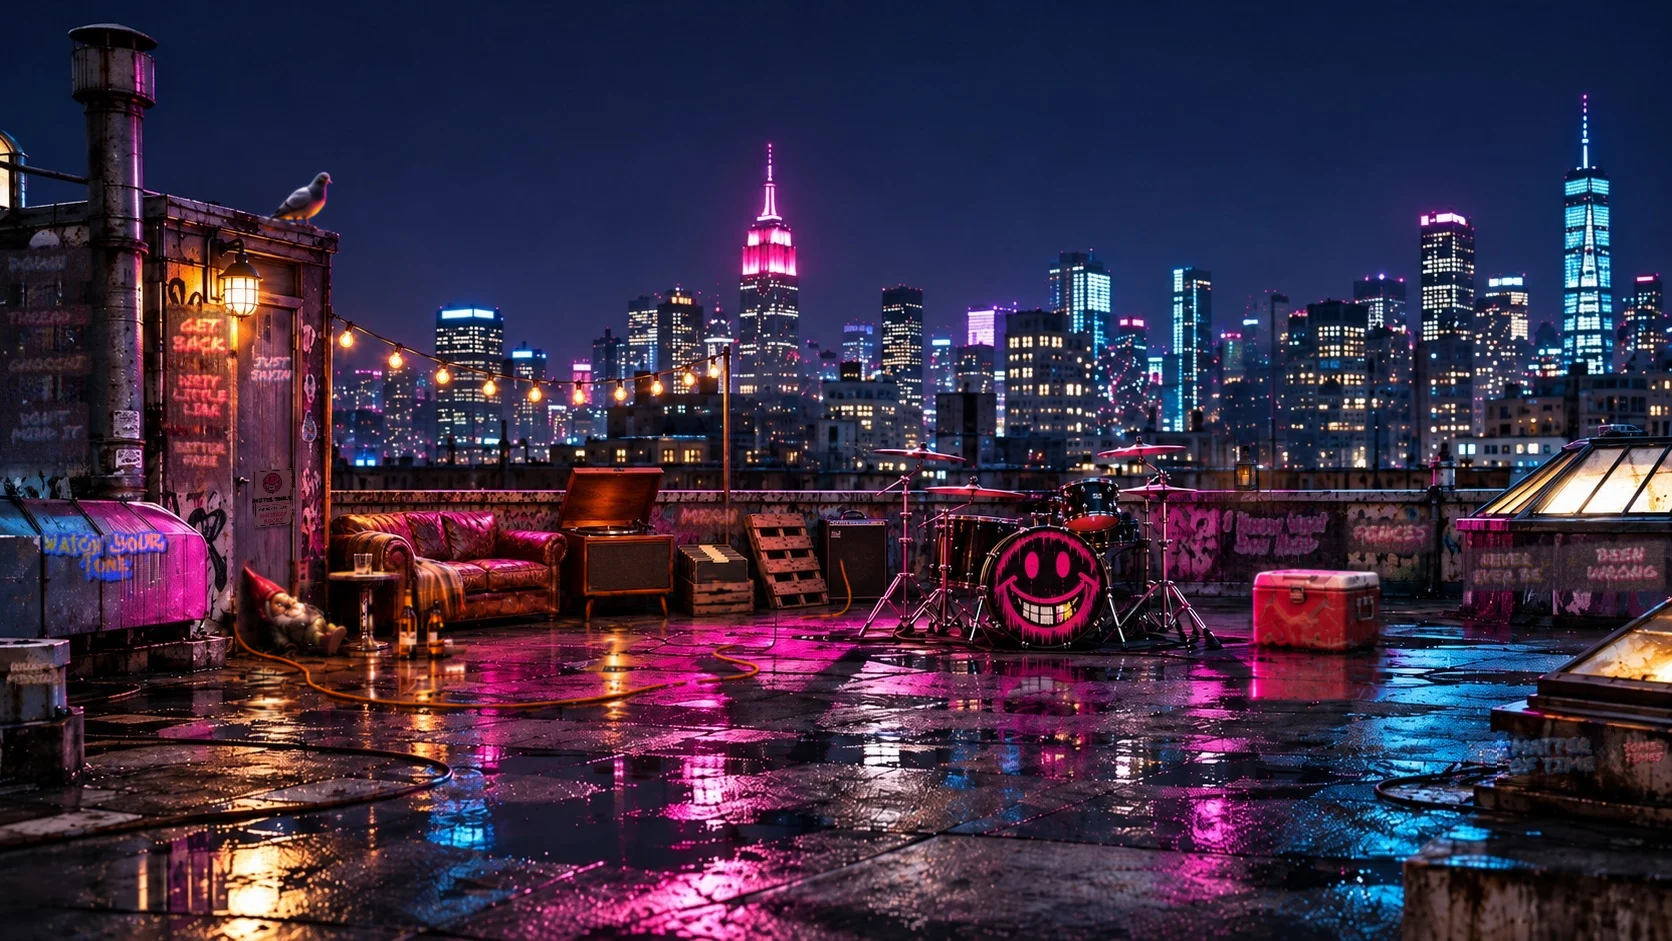
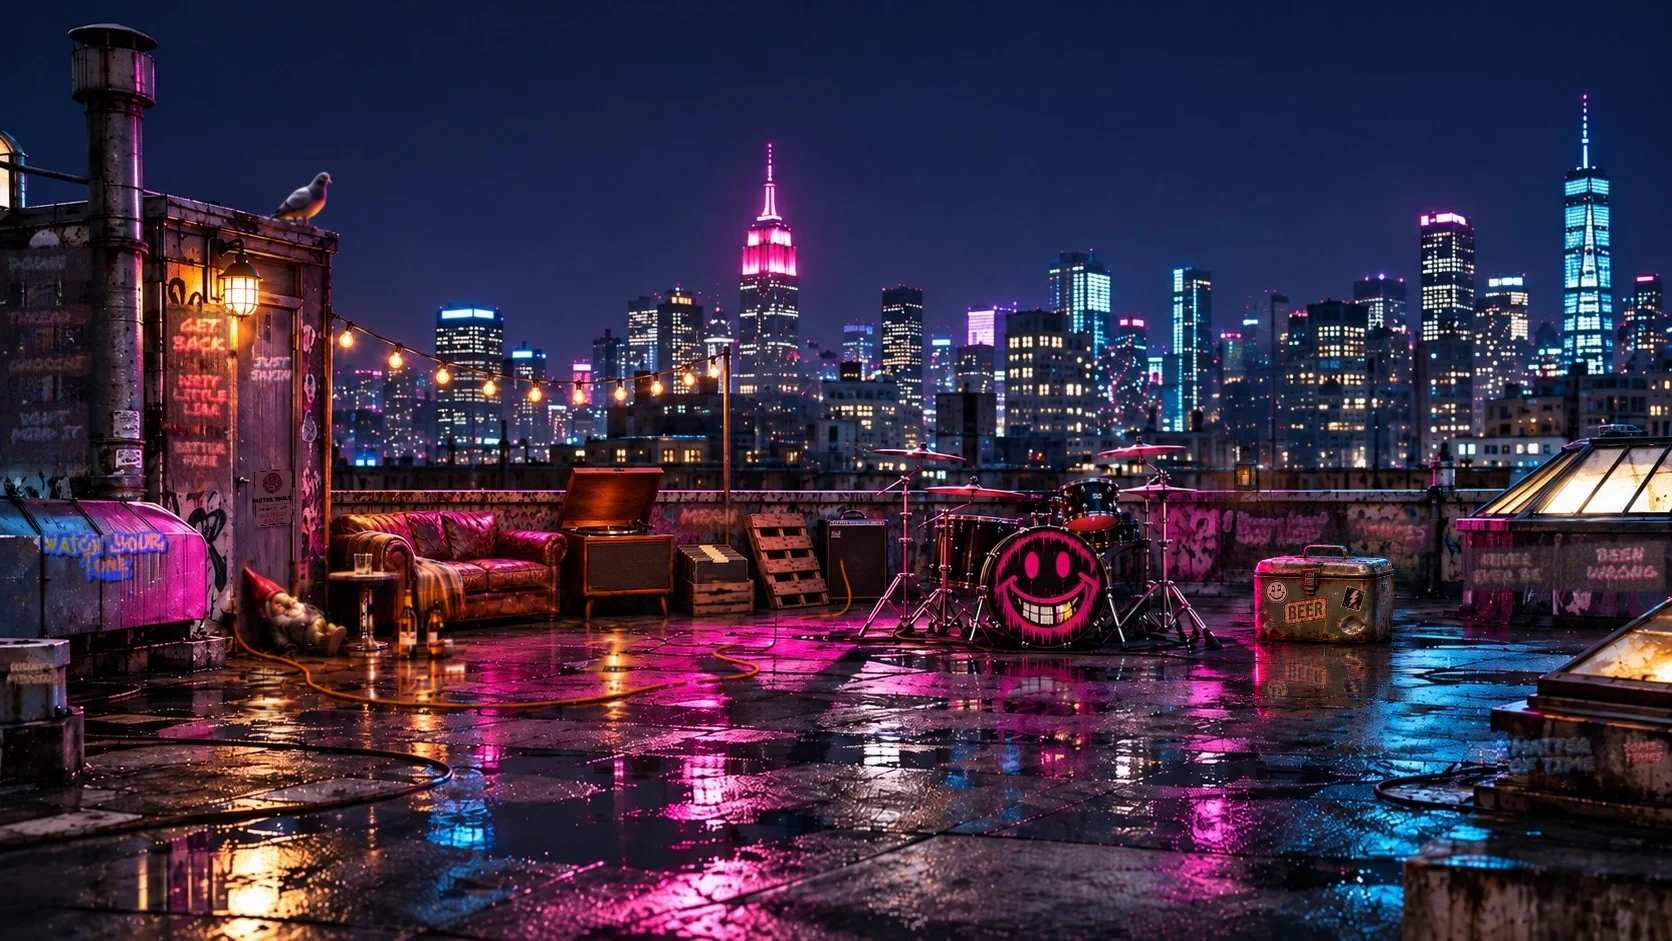
New cooler + spot behind it
Claude-Session: https://claude.ai/code/session_011gssdMsenVXumrh9a32rRB

Changed region(s): [[0.7153, 0.5547, 0.8708, 0.7705]]

diff --git a/index.html b/index.html
@@ -98,7 +98,7 @@ input{flex:1 1 220px;min-width:0;font:inherit;font-size:16px;padding:12px;backgr
 @media (max-width:760px){.stage{-webkit-user-select:none;user-select:none;-webkit-touch-callout:none}}
 #play{position:absolute;left:0;top:0;width:1672px;height:941px;transform-origin:0 0;z-index:3;pointer-events:none}
 #play .pk,#lg-play .pk{appearance:none;-webkit-appearance:none;background-color:transparent;border:0;padding:0;margin:0;color:transparent;position:absolute;pointer-events:auto;cursor:pointer;border-radius:8px;-webkit-tap-highlight-color:transparent}
-#play .pk.img{background-image:url(img/rooftop-lounge.webp?v=10);background-size:1672px 941px;-webkit-mask-image:radial-gradient(ellipse 50% 50% at 50% 50%,#000 70%,transparent 100%);mask-image:radial-gradient(ellipse 50% 50% at 50% 50%,#000 70%,transparent 100%)}
+#play .pk.img{background-image:url(img/rooftop-lounge.webp?v=11);background-size:1672px 941px;-webkit-mask-image:radial-gradient(ellipse 50% 50% at 50% 50%,#000 70%,transparent 100%);mask-image:radial-gradient(ellipse 50% 50% at 50% 50%,#000 70%,transparent 100%)}
 #play .pk:focus-visible,#lg-play .pk:focus-visible{outline:3px solid var(--cyan);outline-offset:2px}
 @media (hover:hover){#play .pk:hover,#lg-play .pk:hover{filter:brightness(1.25) drop-shadow(0 0 6px rgba(255,61,127,.6))}}
 .lt-glow{position:absolute;left:1206px;top:432px;width:80px;height:80px;border-radius:50%;pointer-events:none;
@@ -228,7 +228,8 @@ input{flex:1 1 220px;min-width:0;font:inherit;font-size:16px;padding:12px;backgr
     <button class="pk" id="pk-cym2" style="left:1098px;top:436px;width:96px;height:30px" aria-label="Cymbal"></button>
     <button class="pk" id="pk-amp" style="left:818px;top:510px;width:74px;height:96px" aria-label="Amp"></button>
     <button class="pk img" id="pk-gnome" style="left:236px;top:562px;width:112px;height:98px;background-position:-236px -562px;transform-origin:50% 90%" aria-label="Garden gnome"></button>
-    <button class="pk" id="pk-cooler" style="left:1252px;top:568px;width:130px;height:84px" aria-label="Cooler"></button>
+    <img id="cooler-fg" src="img/cooler-fg.webp?v=1" alt="" style="position:absolute;left:1254px;top:544px;width:140px;height:99px;z-index:74;pointer-events:none">
+    <button class="pk" id="pk-cooler" style="left:1252px;top:544px;width:142px;height:100px;z-index:75" aria-label="Cooler"></button>
     <canvas id="pat-fx" width="1672" height="941"></canvas>
     <div id="tags"></div>
   </div>
@@ -267,9 +268,9 @@ input{flex:1 1 220px;min-width:0;font:inherit;font-size:16px;padding:12px;backgr
 .lounge{position:fixed;inset:0;z-index:40;overflow:hidden;background:#05060a;opacity:0;pointer-events:none}
 .lounge.on{opacity:1;pointer-events:auto}
 .lounge:not(.on),.lounge:not(.on) *{pointer-events:none!important}
-.lounge.moving .lg-fill{opacity:.25}.lg-fill{transition:opacity .4s;position:absolute;inset:-40px;background:url(img/lounge.webp?v=11) 62% 50%/cover;filter:blur(22px) brightness(.45)}
+.lounge.moving .lg-fill{opacity:.25}.lg-fill{transition:opacity .4s;position:absolute;inset:-40px;background:url(img/lounge.webp?v=12) 62% 50%/cover;filter:blur(22px) brightness(.45)}
 .lg-cam,.lg-hero{position:absolute;left:0;top:0;width:1672px;height:941px;transform-origin:0 0;will-change:transform,opacity}
-.lg-cam{z-index:8}.lg-hero{z-index:2;background:url(img/rooftop-lounge.webp?v=10) 0 0/1672px 941px;pointer-events:none}
+.lg-cam{z-index:8}.lg-hero{z-index:2;background:url(img/rooftop-lounge.webp?v=11) 0 0/1672px 941px;pointer-events:none}
 .lg-cam img{position:absolute;display:block;user-select:none;-webkit-user-drag:none}
 .lg-bg{left:0;top:0;width:1672px;height:941px}
 .lg-front{left:341px;top:489px;width:886px;height:405px;pointer-events:none}
@@ -359,7 +360,7 @@ input{flex:1 1 220px;min-width:0;font:inherit;font-size:16px;padding:12px;backgr
 .dig-row[disabled]{cursor:default;color:var(--fog)}.dig-row[disabled] em{color:var(--fog)}
 .dig-row:not([disabled]):hover{background:rgba(255,61,127,.12)}
 @media (max-width:760px){.dig-head h3{visibility:hidden}.dig-foot{flex-wrap:wrap;justify-content:center;border-radius:18px;width:calc(100% - 24px);padding:10px 12px;row-gap:8px}.dig-foot b{order:-1;flex:1 0 100%;text-align:center;font-size:18px}}
-.cr-fill{position:absolute;inset:-40px;background:url(img/lounge.webp?v=11) 50% 50%/cover;filter:blur(24px) brightness(.4)}
+.cr-fill{position:absolute;inset:-40px;background:url(img/lounge.webp?v=12) 50% 50%/cover;filter:blur(24px) brightness(.4)}
 @media (max-width:760px) and (orientation:portrait){
   .lg-panel{position:absolute;pointer-events:auto;left:12px;right:12px;top:auto;bottom:calc(12px + env(safe-area-inset-bottom,0px));width:auto;height:auto;transform:none;background:var(--glass);border-color:var(--line);padding:14px 16px;gap:8px}
   .lg-panel small{font-size:11px}.lg-panel b{font-size:24px}.lg-panel .row{font-size:13px}
@@ -620,7 +621,7 @@ input{flex:1 1 220px;min-width:0;font:inherit;font-size:16px;padding:12px;backgr
     const v=$("lg-glide"), soft=t=>t*t*(3-2*t);
     const [wSky,hG,wMid,wFore]=WL, HF2=$("hero-f"); [wSky,hG,wMid,wFore,HF2].forEach(el=>el.style.opacity="0");
     hero.style.display="none";
-    $("pl-sky").src="img/lounge.webp?v=11"; $("pl-mid").style.display="none"; $("pl-fore").style.display="none";
+    $("pl-sky").src="img/lounge.webp?v=12"; $("pl-mid").style.display="none"; $("pl-fore").style.display="none";
     const M1={s:S,ox:OX,oy:OY};
     const bp=(stg.style.backgroundPosition||"50% 42%").split(" "); v.style.objectPosition=bp.join(" ");
     v.style.opacity="1"; v.style.display="block"; cam.style.opacity="0";
@@ -1167,7 +1168,7 @@ input{flex:1 1 220px;min-width:0;font:inherit;font-size:16px;padding:12px;backgr
   let signupBound=false;
   function render(c){
     const hints=c.site&&c.site.showSetupHints;
-    $("stage").style.backgroundImage=`url("${(c.images&&c.images.hero)||"img/rooftop-lounge.webp?v=10"}")`;
+    $("stage").style.backgroundImage=`url("${(c.images&&c.images.hero)||"img/rooftop-lounge.webp?v=11"}")`;
     const m=c.music,f=m.featured;
     const sub=[f.status,f.length].filter(Boolean).join(" · ");
     $("t-listen").textContent=f.title+" ▸"; $("t-listen-sub").textContent=sub;
@@ -1432,7 +1433,7 @@ Reply with ONLY JSON: {"reply":"one short friendly sentence","changes":["plain-E
   const wait=ms=>new Promise(r=>setTimeout(r,ms));
   // feet positions in main-shot coords (1672x941); height follows the floor's perspective (scaled to the drum kit)
   // far (back by the wall), mid (by the kit), close (foreground)
-  const SPOTS=[[740,640],[1445,630],[565,655], [800,665],[1195,668],[870,712],[1215,722], [430,800],[1290,812],[640,782]];
+  const SPOTS=[[740,640],[1445,630],[1330,615],[565,655], [800,665],[1195,668],[870,712],[1215,722], [430,800],[1290,812],[640,782]];
   const hFor=f=>1.48*(f-420);
   const MEMBERS=[], taken=()=>MEMBERS.map(m=>m.spot);
   function freeSpot(self){ const busy=taken().filter((s,i)=>MEMBERS[i]!==self && s>=0);
